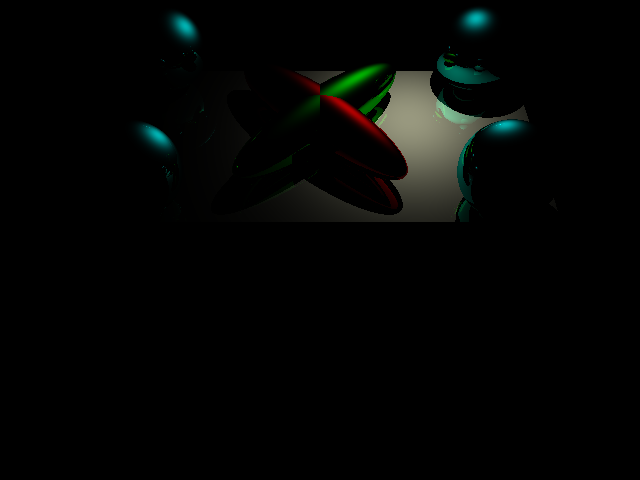
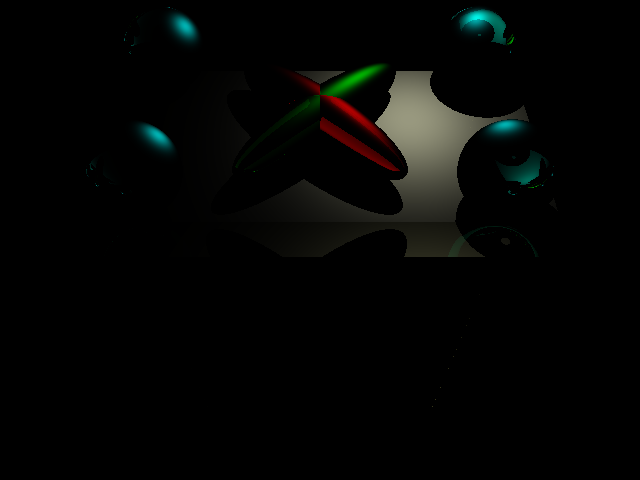
Mess with specular lighting in attempt to correct it
Didn't work but not has some different reflect directions to switch between.

diff --git a/RayTracer/main.cpp b/RayTracer/main.cpp
@@ -168,6 +168,7 @@ Color calculateLightingColor(const Scene& scene, const glm::vec3& intersectPoint
 		if (!intersect.isValidIntersection() || !featureIsActive(Feature::SHADOWS)) {
 			float diffuseLightIntensity = calculateDiffuseLighting(intersectNormal, lightDir);
 			glm::vec3 eyeDir = glm::normalize(scene.getCamera().getEye() - intersectPoint);
+			//glm::vec3 reflectDir = glm::normalize(lightDir + 2.0f*glm::dot(-lightDir, intersectNormal))*intersectNormal;
 			glm::vec3 halfAngle = glm::normalize(lightDir + eyeDir);
 			float specularLightIntensity = calculateSpecularLighting(objMat, intersectNormal, halfAngle);
 			if (debugIsActive(Debug::DIFFUSE_LIGHT_INTENSITY)) {
@@ -381,7 +382,7 @@ void runTests() {
 
 
 int main(int argc, char* argv[]) {
-	SceneMetaData metaData = createSceneMetaData("final_scenes/scene4-specular.test");
+	SceneMetaData metaData = createSceneMetaData("final_scenes/scene7.test");
 	createRender(metaData);
 	//createAllRendersForScene(metaData);
 	std::cout << "Finished Rendering" << std::endl;

diff --git a/RayTracer/Partition.cpp b/RayTracer/Partition.cpp
@@ -15,7 +15,7 @@ Partition::Partition(const std::vector<Shape*>& objects)
 	for (Shape* obj : objects) {
 		insert(obj, root);
 	}
-	split(root, 0);
+	//split(root, 0);
 }
 
 
